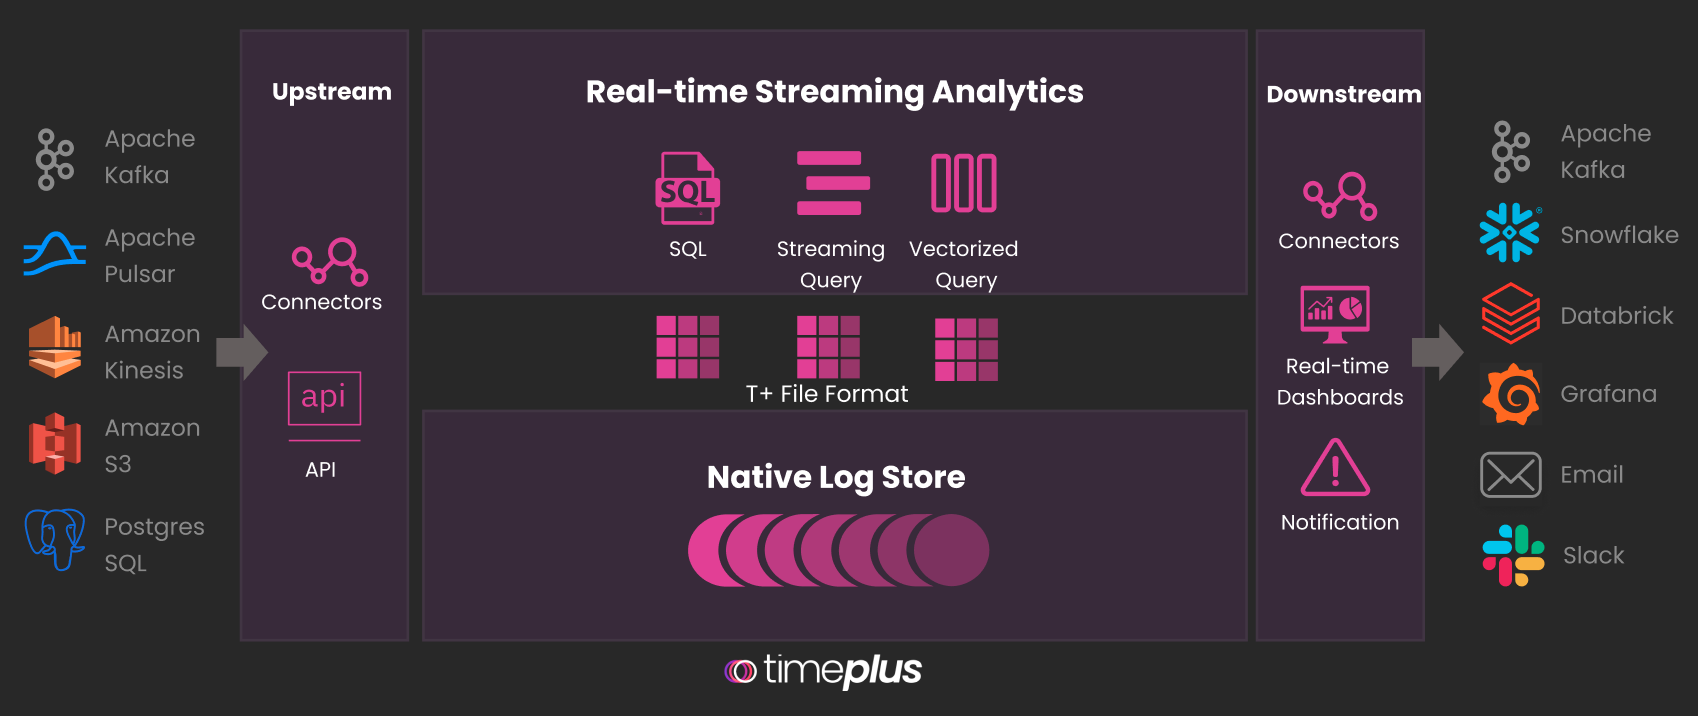
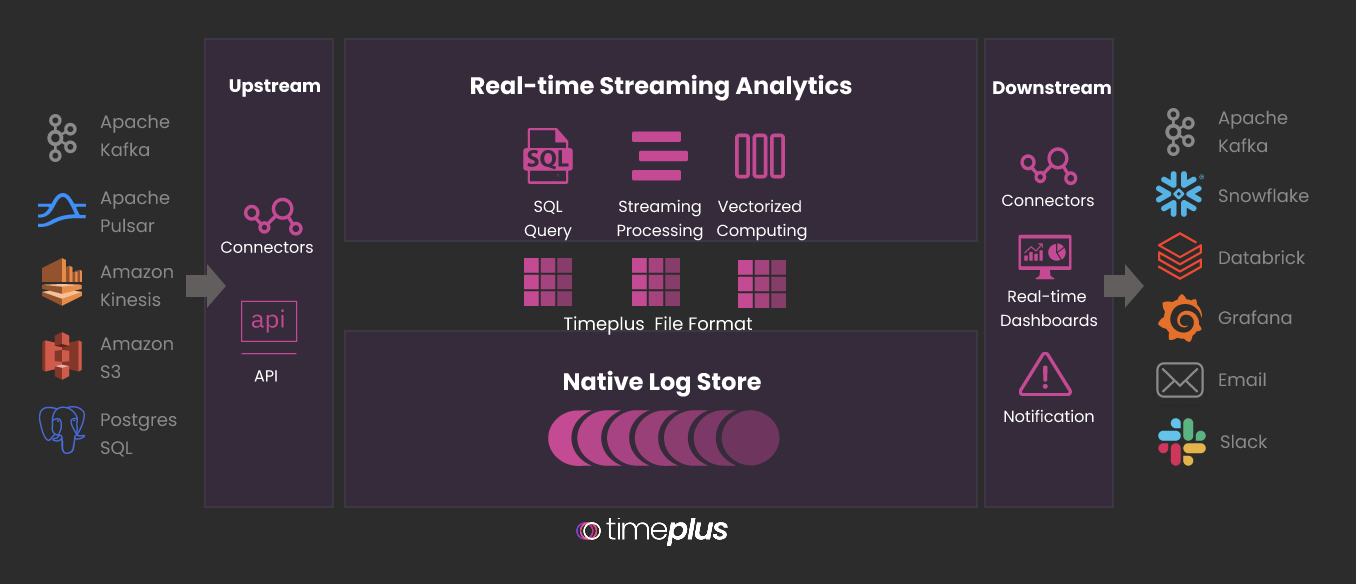
Squashed commit of the following:
commit d8fb9d65501fb3849a3b88f81cfbbbe123248f1a
Author: Jove Zhong <jove@timeplus.io>
Date:   Sun Mar 6 07:47:24 2022 -0800

    update docs/index.md

commit 409ed1705130489f2f3b12bae178ba72a6c06a6b
Author: Gang Tao <gangtao@users.noreply.github.com>
Date:   Sat Mar 5 23:28:28 2022 -0800

    add architecture overview introduction

commit 5aed98f01d695d0e84df9ce4ccb97a6e78e49e75
Author: Gang Tao <gang@timeplus.io>
Date:   Sat Mar 5 09:31:45 2022 -0800

    update high level arch diagram

commit 7f0896f7d3962a35ba329a2c193e6e93b0b307dd
Author: Jove Zhong <jove@timeplus.io>
Date:   Fri Mar 4 18:25:30 2022 -0800

    more updates for the doc

commit 9c37b2c5c54a241a5fa497a9325624e9f43f23f4
Author: Jove Zhong <jove@timeplus.io>
Date:   Fri Mar 4 17:49:54 2022 -0800

    update the slack invite link

commit f851a7efc4108aad887c3dad5afd357890d23ca1
Author: Jove Zhong <jove@timeplus.io>
Date:   Fri Mar 4 17:49:01 2022 -0800

    don't mention postgres or CK protocols in docs yet

diff --git a/docs/index.md b/docs/index.md
@@ -4,5 +4,17 @@ Timeplus is a fast and powerful real-time analytics platform.
 
 ![overview](/img/overview.png)
 
+## High performance storage {#fast}
+
+Timeplus has designed a column based data format called **Timeplus File Format (TFF)**, which supports blazing fast serialization and de-serialization. Since it is in column format, data can be vectorized for high performance analytic computation.  To fully leverage the capability of TFF, Timeplus also designed a stream storage called Timeplus **Native Log**. Combined with TFF, Timeplus Native Log provides high performance data ingestion, it can quickly prune data on disk and filter out data which is not required for streaming processing.  Timeplus Native log also supports timestamp based seek and optimized time series data analytics scenarios.
+
+## Powerful analytic engine {#powerful}
+
+Timeplus has a high performance streaming SQL engine, leveraging vectorized data computing capability, streaming data is processed in super high efficiency with the modern parallel processing technology Instruction/Multiple Data (SIMD). Timeplus provides unique solutions to analyze both real-time data and historical data. As our company name implies, we are specialized to process real-time data. Each query in Timeplus can detect late events, and you can choose to drop or wait for them. Common streaming windows are supported such as tumble, hopping, session. You can join a stream with other streams, or enrich them with data from CSV, S3 or databases. 
+
+## End to end analytic platform {#intuitive}
+
+Timeplus is not only a streaming SQL database, it provides end to end analytic functionalities.  Timeplus supports various data source connections such as Apache Kafka, Amazon S3 and Amazon Kinesis.  Timeplus provides a web client where the user can interactively do data analysis in real-time.  Real time visualization and dashboards are provided.  The user can also use API to interact with the data or send the analytic result to downstream data systems such as Apache Kafka, Databases , Data warehouse or Data lakes.  Alerts are provided so that the users can make real time actions based on the anomaly detected by the streaming analytic result.
+
 Please check the [Demo Scenario](usecases) for a comprehensive list of our key capabilities.
 
